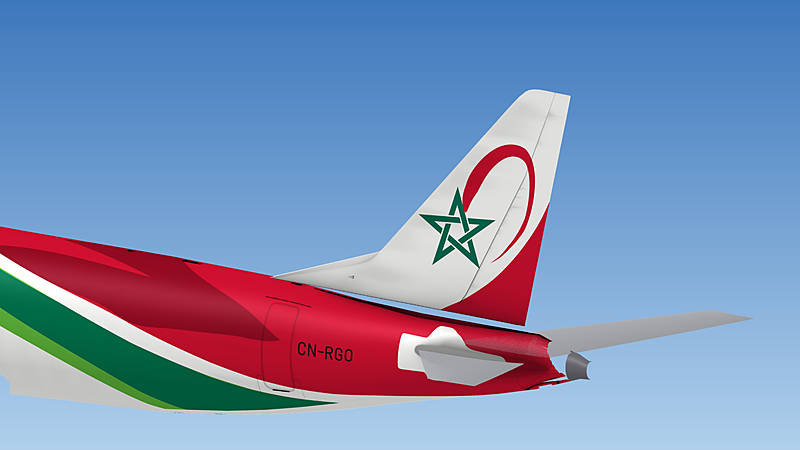
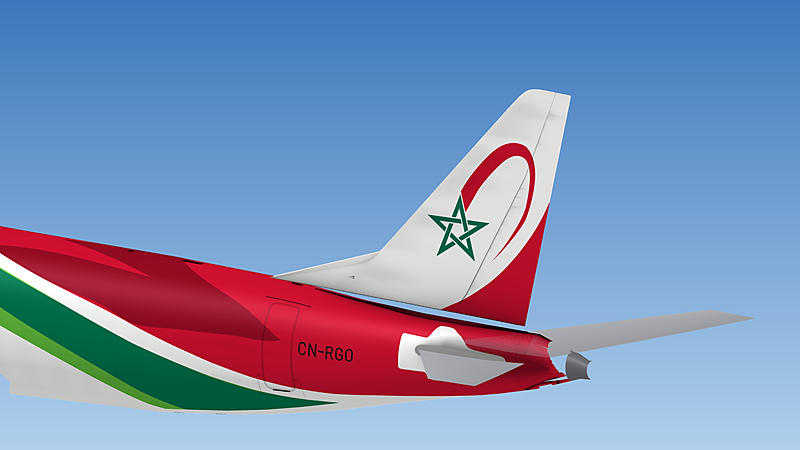
Royal Air Maroc E190 livery: tail crescent and star traced from the photo
The crescent's width was uneven: its centreline was smoothed with a moving
average whose window shrank near the ends, leaving a notch near the star and
another near the tip, and it tapered to a point at the star. It is now
traced edge to edge off the first photo:

- centreline: a curve whose curvature varies smoothly, fitted to the traced
  one to within 0.35 px of the photo (a direct interpolation kept the photo's
  ripples, which the inner edge magnifies), starting on the traced straight
  end at the star;
- width: ~18 photo px over the upper left and the top, narrowing round the
  top right to ~11, then tapering evenly to a fine point;
- the star end: full width, cut parallel to the star's arm and clear of it
  by the weave's gap, as in the photo.

The star was ~25% too large: its radius counted to the bands' centrelines,
so its tips reached ~1.26 times further. It is now fitted to the photo as a
regular interlaced pentagram: radius 34.8 photo px to the centrelines, bands
0.15 of that, centred where it was and turned 3 deg clockwise as the photo
shows (woven_star takes a rotation).

elements.py now needs SciPy.

Claude-Session: https://claude.ai/code/session_01AKynkLixakaggPB1GpUYWR

diff --git a/livery/royal-air-maroc-e190/tools/elements.py b/livery/royal-air-maroc-e190/tools/elements.py
@@ -16,59 +16,82 @@ from geometry import RED, REG_RED, STAR_GREEN, catmull_rom
 SS = 4
 
 
-# Crescent centreline (x, y, stroke width) in tail-crop pixels.
-CRESCENT = [(509, 324, 0), (511, 292, 20), (520, 262, 26), (536, 236, 31),
-            (565, 195, 36), (600, 167, 33), (640, 156, 27), (672, 166, 24),
-            (690, 197, 22), (694, 240, 21), (688, 290, 20), (675, 330, 18),
-            (655, 366, 15), (630, 399, 12), (605, 423, 8), (577, 441, 0)]
-STAR_C, STAR_R = (487, 370), 85
-STAR_W, STAR_GAP = 0.16 * 85, 0.04 * 85
+# Crescent, traced edge to edge off the first photo (tail-crop pixels, 2x the
+# photo): a centreline whose curvature varies smoothly (fitted to the traced
+# one to within 0.35 px of the photo, kept clear of the photo's ripples, which
+# the inner edge would magnify), a smooth stroke width along it, and a
+# straight cut where it meets the star. The points are kept to 0.001 px:
+# 12 px apart, rounding to 0.1 px would ripple the gentle curvature of the
+# right-hand side. The stroke is ~36 wide over the upper left and the top,
+# narrows round the top right to ~21, then tapers evenly down the
+# right-hand side to a point; at the star it ends full width, cut along the
+# star's arm with a gap (crescent_cut).
+CRESCENT = [(516.800, 272.000), (523.088, 261.691), (529.769, 251.634), (536.882, 241.876),
+            (544.379, 232.411), (552.180, 223.194), (560.214, 214.179), (568.452, 205.351),
+            (576.919, 196.741), (585.696, 188.450), (594.924, 180.665), (604.780, 173.698),
+            (615.413, 167.996), (626.830, 164.116), (638.789, 162.629), (650.759, 163.966),
+            (662.013, 168.254), (671.822, 175.241), (679.658, 184.393), (685.284, 195.053),
+            (688.750, 206.603), (690.309, 218.567), (690.322, 230.636), (689.166, 242.653),
+            (687.173, 254.561), (684.587, 266.355), (681.535, 278.038), (678.043, 289.597),
+            (674.077, 301.001), (669.582, 312.208), (664.525, 323.172), (658.925, 333.869),
+            (652.848, 344.303), (646.381, 354.500), (639.615, 364.502), (632.625, 374.348),
+            (625.453, 384.063), (618.106, 393.646), (610.554, 403.069), (602.734, 412.269),
+            (594.838, 421.177), (586.719, 429.889), (578.600, 438.600)]
+# stroke width against the fraction of the way along, from the first point
+CRESCENT_WIDTH = [(0.00, 36.17), (0.05, 35.44), (0.10, 35.41), (0.15, 35.61), (0.20, 35.55), (0.25, 34.75),
+                  (0.30, 32.73), (0.35, 29.30), (0.40, 25.41), (0.45, 22.14), (0.50, 20.00), (0.55, 18.39),
+                  (0.60, 16.32), (0.65, 14.05), (0.70, 12.00), (0.75, 10.10), (0.80, 8.13), (0.85, 5.94),
+                  (0.90, 3.71), (0.95, 1.65), (1.00, 0.00)]
+# Star, fitted to the first photo as a regular interlaced pentagram: centre,
+# radius to the bands' centrelines, band width and tilt (clockwise, as the
+# crescent is traced, so the two keep their places on the jet).
+STAR_C, STAR_R, STAR_ROT = (489.0, 367.4), 69.7, 3.1
+STAR_W, STAR_GAP = 0.15 * STAR_R, 0.04 * STAR_R
 
 
-def _resample(pts, n):
-    d = [0.0]
-    for a, b in zip(pts, pts[1:]):
-        d.append(d[-1] + math.hypot(b[0] - a[0], b[1] - a[1]))
-    out, j = [], 0
-    for i in range(n):
-        t = d[-1] * i / (n - 1)
-        while j < len(d) - 2 and d[j + 1] < t:
-            j += 1
-        f = (t - d[j]) / ((d[j + 1] - d[j]) or 1)
-        out.append((pts[j][0] + f * (pts[j + 1][0] - pts[j][0]),
-                    pts[j][1] + f * (pts[j + 1][1] - pts[j][1])))
-    return out
-
-
-def crescent_width(u):
-    """Thin pointed start at the star, fattest over the upper left, then a
-    long taper down the right-hand side to a point."""
-    peak, wmax = 0.16, 37.0
-    if u < peak:
-        return wmax * math.sin(math.pi / 2 * u / peak) ** 0.6
-    return wmax * max(0.0, 1 - (u - peak) / (1 - peak)) ** 0.85
-
-
-def crescent_polygon(k, ox, oy, n=1200):
-    pts = _resample(catmull_rom([(x, y) for x, y, _ in CRESCENT], 30), n)
-    win = 130
-    sm = []
-    for i in range(n):
-        a, b = max(0, i - win), min(n, i + win + 1)
-        # shrink the window at the ends so the endpoints stay put
-        h = min(i - a, b - 1 - i)
-        seg = pts[i - h:i + h + 1]
-        sm.append((sum(p[0] for p in seg) / len(seg), sum(p[1] for p in seg) / len(seg)))
-    left, right = [], []
-    for i, (x, y) in enumerate(sm):
-        p, q = sm[max(i - 2, 0)], sm[min(i + 2, n - 1)]
-        dx, dy = q[0] - p[0], q[1] - p[1]
-        L = math.hypot(dx, dy) or 1
-        nx, ny = -dy / L, dx / L
-        hw = crescent_width(i / (n - 1)) / 2
-        left.append(((x + nx * hw) * k + ox, (y + ny * hw) * k + oy))
-        right.append(((x - nx * hw) * k + ox, (y - ny * hw) * k + oy))
+def crescent_polygon(k, ox, oy, n=1500, ext=70.0):
+    """Outline of the stroke, run on past its star end so that the cut
+    (crescent_cut) ends it there."""
+    import numpy as np
+    from scipy.interpolate import make_interp_spline, splev, splprep
+    c = np.array(CRESCENT, float)
+    t0 = c[0] - c[1]
+    t0 /= np.linalg.norm(t0)
+    c = np.vstack([c[0] + t0 * ext, c])
+    s = np.r_[0, np.cumsum(np.hypot(*np.diff(c, axis=0).T))]
+    tck, _ = splprep(c.T, u=s / s[-1], s=0, k=3)
+    u = np.linspace(0, 1, n)
+    x, y = splev(u, tck)
+    dx, dy = splev(u, tck, der=1)
+    L = np.hypot(dx, dy)
+    nx, ny = -dy / L, dx / L
+    s0 = ext / s[-1]
+    f = np.clip((u - s0) / (1 - s0), 0, 1)
+    hw = make_interp_spline(*zip(*CRESCENT_WIDTH), k=3)(f) / 2
+    left = [((a + b * h) * k + ox, (c_ + d * h) * k + oy) for a, b, c_, d, h in zip(x, nx, y, ny, hw)]
+    right = [((a - b * h) * k + ox, (c_ - d * h) * k + oy) for a, b, c_, d, h in zip(x, nx, y, ny, hw)]
     return left + right[::-1]
+
+
+def crescent_cut(k, ox, oy, big=2000.0):
+    """Half-plane on the stroke's side of the cut at the star: parallel to the
+    star's arm from its top point, clear of it by the weave's gap (the photo
+    shows the same ~1.5 px of white there)."""
+    sx, sy = STAR_C
+    V = [(sx + STAR_R * math.sin(math.radians(72 * i + STAR_ROT)),
+          sy - STAR_R * math.cos(math.radians(72 * i + STAR_ROT))) for i in (0, 2)]
+    dx, dy = V[1][0] - V[0][0], V[1][1] - V[0][1]
+    L = math.hypot(dx, dy)
+    dx, dy = dx / L, dy / L
+    nx, ny = -dy, dx
+    bx, by = CRESCENT[2]
+    if (bx - V[0][0]) * nx + (by - V[0][1]) * ny < 0:
+        nx, ny = -nx, -ny
+    off = STAR_W / 2 + STAR_GAP
+    cx, cy = V[0][0] + nx * off, V[0][1] + ny * off
+    p1, p2 = (cx - dx * big, cy - dy * big), (cx + dx * big, cy + dy * big)
+    quad = [p1, p2, (p2[0] + nx * big, p2[1] + ny * big), (p1[0] + nx * big, p1[1] + ny * big)]
+    return [(x * k + ox, y * k + oy) for x, y in quad]
 
 
 def line_intersect(p1, p2, p3, p4):
@@ -94,9 +117,10 @@ def mask_poly(size, poly):
     return m
 
 
-def woven_star(size, cx, cy, R, w, gap):
-    """Interlaced pentagram mask: sharp mitred tips, alternating over/under."""
-    V = [(cx + R * math.sin(math.radians(72 * i)), cy - R * math.cos(math.radians(72 * i)))
+def woven_star(size, cx, cy, R, w, gap, rot=0.0):
+    """Interlaced pentagram mask: sharp mitred tips, alternating over/under;
+    rot turns it clockwise, in degrees."""
+    V = [(cx + R * math.sin(math.radians(72 * i + rot)), cy - R * math.cos(math.radians(72 * i + rot)))
          for i in range(5)]
     path = [0, 2, 4, 1, 3]
     lines = [(V[path[i]], V[path[(i + 1) % 5]]) for i in range(5)]
@@ -106,9 +130,9 @@ def woven_star(size, cx, cy, R, w, gap):
     r_in = R * math.sin(math.radians(18)) / math.sin(math.radians(54))
     outline = []
     for i in range(5):
-        a = math.radians(72 * i)
+        a = math.radians(72 * i + rot)
         outline.append((cx + R * s * math.sin(a), cy - R * s * math.cos(a)))
-        a2 = math.radians(72 * i + 36)
+        a2 = math.radians(72 * i + 36 + rot)
         outline.append((cx + r_in * s * math.sin(a2), cy - r_in * s * math.cos(a2)))
     clip = mask_poly(size, outline)
 
@@ -153,9 +177,10 @@ def tail_logo(size=4096):
     img = Image.new("RGBA", (S, S), (0, 0, 0, 0))
     red = Image.new("RGBA", (S, S), RED + (255,))
     green = Image.new("RGBA", (S, S), STAR_GREEN + (255,))
-    img.paste(red, mask=mask_poly((S, S), crescent_polygon(k, ox, oy)))
+    img.paste(red, mask=ImageChops.multiply(mask_poly((S, S), crescent_polygon(k, ox, oy)),
+                                            mask_poly((S, S), crescent_cut(k, ox, oy))))
     star = woven_star((S, S), STAR_C[0] * k + ox, STAR_C[1] * k + oy, STAR_R * k,
-                      STAR_W * k, STAR_GAP * k)
+                      STAR_W * k, STAR_GAP * k, STAR_ROT)
     img.paste(green, mask=star)
     return img.resize((size, size), Image.LANCZOS)
 

diff --git a/livery/royal-air-maroc-e190/README.md b/livery/royal-air-maroc-e190/README.md
@@ -12,7 +12,7 @@ in the private `Pozklii/190` repo (branch `royal-air-maroc-livery`), not here.
 - `tools/geometry.py`: band boundaries, outline, windows, doors and title positions traced from the reference photo
 - `tools/elements.py`, `tools/profile.py`: render the elements and the profile
 
-Regenerate (needs Pillow and NumPy):
+Regenerate (needs Pillow, NumPy and SciPy):
 
 ```sh
 python3 tools/elements.py artwork fonts
